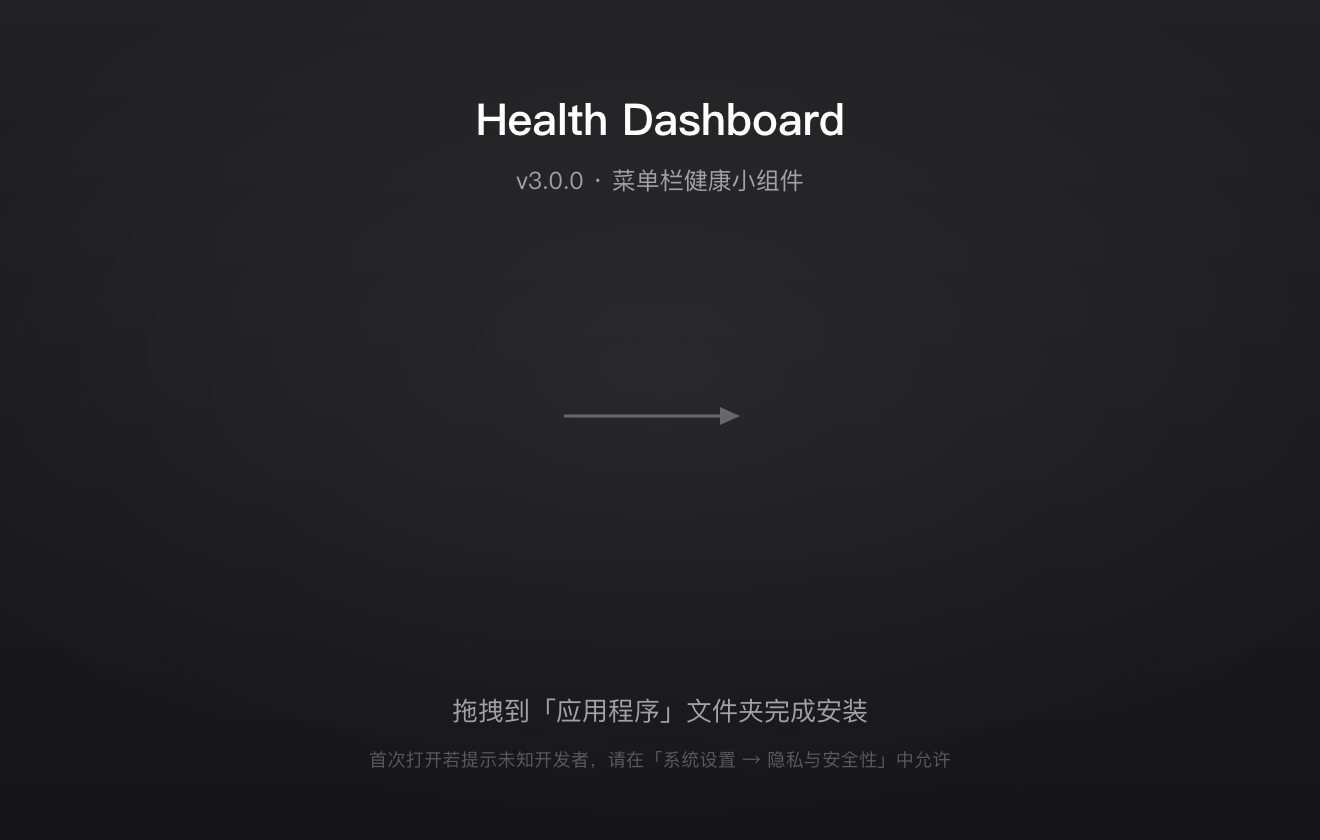
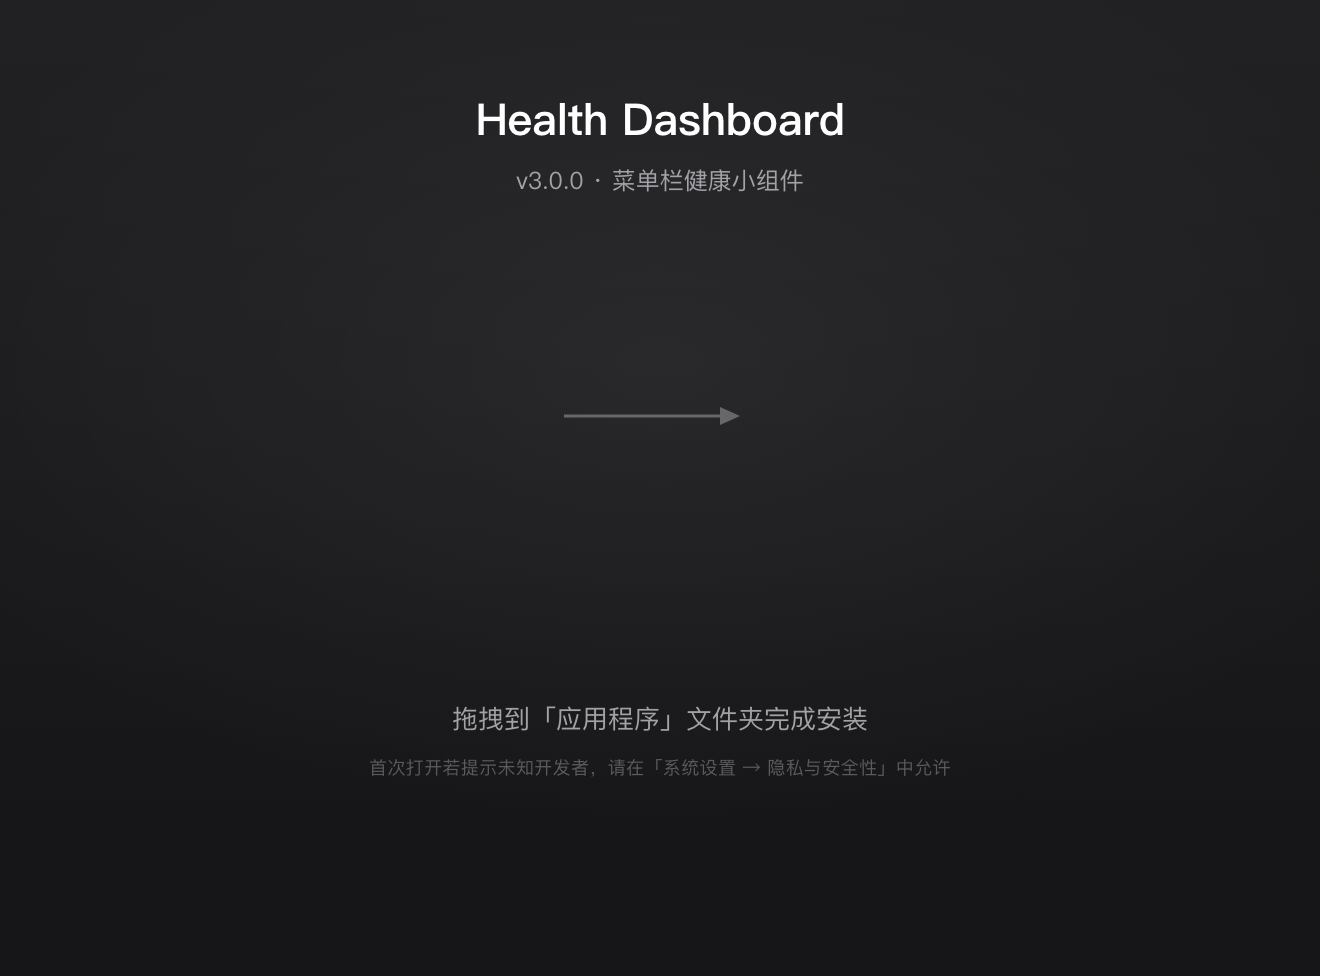
fix(dmg): 安装画面位移乱版 —— 背景图按 144dpi 写，图标补偿网格偏移
根因两条，都实测标定过：

1. Finder 把 .DS_Store 的背景图**按像素当点**画。1320×840 的 PNG 被当成
   1320×840 点，在 660 宽的窗口里只露出左上角，标题跑到右边被裁 —— 这就是
   看到的「位移」。给 PNG 写 144dpi 后 NSImage 点尺寸回到 660×488，画面归位。

2. Finder 渲染图标时会整体右移一个固定量（实测 +34.8pt，两个图标一致、
   与取值无关）。Iloc 写 130/460，渲染出来中心正好落在 165/495，中线 329
   正对背景图箭头。

配套改动：
- background.html/png: 画布 660×488（上面 420 是设计区，下面 68 只铺渐变）
- build_dmg.sh: 窗口 bounds {{500, 335}, {660, 516}}
  标题栏 28 + 工具栏 40 + 内容区 420 + 路径栏 28。ShowToolbar=false 在 macOS 26
  不被采纳，所以按「工具栏一定在」配高度，再用多画的 68 点兜住它被隐藏的情况。
- patch_dsstore.py: DEFAULT_LAYOUT/GRID_NUDGE_X 常量 + 坐标语义写进 docstring

验收（真机截图逐像素测）：内容区 334.0–753.5（高 419.5）、宽 658.5；
app 图标中心 x=164.2、文件夹 494.2（目标 165/495）；图标中线 329.2，箭头 325。

diff --git a/assets/dmg/background.html b/assets/dmg/background.html
@@ -4,16 +4,23 @@
 <meta charset="utf-8">
 <title>dmg background</title>
 <style>
-  html,body{width:660px;height:420px;margin:0;padding:0;overflow:hidden}
+  /* 画布 660×488：上面 420 是设计区，下面 68 只铺渐变。
+     Finder 会把图按「像素当点」画，所以导出时必须写 144dpi，
+     这样 1320×976 的图才会渲染成 660×488 点。 */
+  html,body{width:660px;height:488px;margin:0;padding:0;overflow:hidden}
   body{
     position:relative;
     font-family:-apple-system,"SF Pro Text","PingFang SC",system-ui,sans-serif;
     font-variant-numeric:tabular-nums;
     -webkit-font-smoothing:antialiased;
-    background:linear-gradient(180deg,#212124 0%,#161618 100%);
+    background:#161618;
     color:#fff;
   }
-  .glow{position:absolute;inset:0;background:radial-gradient(560px 320px at 50% 44%,rgba(255,255,255,.055),transparent 72%)}
+  /* 渐变只铺设计区高度，多出来的部分用渐变末端色，接缝看不出 */
+  .bg{position:absolute;left:0;top:0;width:660px;height:420px;
+      background:linear-gradient(180deg,#212124 0%,#161618 100%)}
+  .glow{position:absolute;left:0;top:0;width:660px;height:420px;
+        background:radial-gradient(560px 320px at 50% 44%,rgba(255,255,255,.055),transparent 72%)}
 
   .brand{position:absolute;left:0;right:0;top:44px;text-align:center}
   .brand-t{font-size:22px;font-weight:600;letter-spacing:-.01em;color:#fff}
@@ -22,12 +29,14 @@
   .guide{position:absolute;left:50%;top:208px;transform:translate(-50%,-50%);width:96px;height:12px}
   .guide svg{display:block;width:96px;height:12px}
 
-  .foot{position:absolute;left:0;right:0;bottom:34px;text-align:center}
+  /* 用 top 定位而不是 bottom：画布加高后位置不变，仍在设计区内 */
+  .foot{position:absolute;left:0;right:0;top:350px;text-align:center}
   .foot-m{font-size:13px;color:#A1A1A6}
   .foot-s{font-size:9px;color:#5A5A5F;margin-top:9px;letter-spacing:.02em}
 </style>
 </head>
 <body>
+  <div class="bg"></div>
   <div class="glow"></div>
 
   <div class="brand">

diff --git a/scripts/patch_dsstore.py b/scripts/patch_dsstore.py
@@ -8,10 +8,18 @@ Finder 的 AppleScript 通道在受限环境下可能被系统拒绝，或在多
   2. Iloc 记录          —— 每个条目的图标坐标（x, y 各 4 字节大端）
 
 用法：
-    patch_dsstore.py <卷挂载路径> [--bounds "{{360, 160}, {660, 448}}"]
+    patch_dsstore.py <卷挂载路径> [--bounds "{{500, 335}, {660, 516}}"]
 
-坐标说明：Finder 的图标坐标原点在**窗口内容区左上角**，y 向下。
-窗口的 WindowBounds 高度 = 内容区高度 + 标题栏高度（本机实测 28pt）。
+坐标说明（macOS 26.6 实测标定）：
+  - Iloc 坐标原点在**窗口内容区左上角**，y 向下；存的是图标**中心**。
+    x 存 160 时图标中心落在内容区 x=165，即 app 侧有 +5 的固定内缩。
+  - WindowBounds 是**左上角原点**的屏幕坐标（不是 Cocoa 的底部原点），
+    存 (500, 335) 窗口顶边就落在 y=335。
+  - WindowBounds 的高度 = 标题栏 + 工具栏 + 内容区 + 路径栏。实测：
+    标题栏 28 + 工具栏 40 + 路径栏 28 = 96，所以内容区要 420 就得写 516。
+    .DS_Store 里的 ShowToolbar / ShowPathbar 在本机不被 Finder 采纳，
+    所以按「工具栏一定在」来配高度，再把背景图多画 68 点（488）兜住
+    万一工具栏被隐藏时多出来的内容区。
 """
 
 import argparse
@@ -20,18 +28,28 @@ import re
 import sys
 import io
 
-# 条目名 -> 目标坐标。隐藏项挪到内容区下方（内容区高 420，y=560 完全在视口外），
-# 这样即使用户在 Finder 里开了「显示隐藏文件」也看不到它们。
+# 条目名 -> 目标坐标。
+#
+# 坐标语义（实测标定，macOS 26.6）：
+#   Iloc 的 x/y 原点在**内容区左上角**，保存的是图标**中心**的基准点，但 Finder 渲染时
+#   会把整个图标网格右移一个固定量（实测 +34.8pt，两个图标一致、与取值无关，
+#   与图标名最长的标签宽度有关，对本 app 是确定值）。所以这里按「设计值 - 35」写，
+#   渲染出来中心正好落在 165 / 495，中线 330 正对背景图箭头。
+#   y 无偏移（208 -> 207.8）。
+#   隐藏项挪到内容区下方（y=560 在 488 高的内容区之外），这样即使用户在 Finder 里
+#   开了「显示隐藏文件」也看不到它们。
+GRID_NUDGE_X = 35
+
 DEFAULT_LAYOUT = {
-    "Health Dashboard.app": (165, 208),
-    "Applications": (495, 208),
+    "Health Dashboard.app": (165 - GRID_NUDGE_X, 208),
+    "Applications": (495 - GRID_NUDGE_X, 208),
     ".background": (60, 560),
     ".fseventsd": (220, 560),
     ".VolumeIcon.icns": (380, 560),
 }
 
-# 窗口内容区之外的坐标才算「挪走」；用于校验
-CONTENT_H = 420
+# 内容区高度（背景图高 488，设计区占上面 420）；用于校验隐藏项是否真在视口外
+CONTENT_H = 488
 
 
 def die(msg):
@@ -89,7 +107,7 @@ def main():
     ap.add_argument("volume", help="卷挂载路径，例如 /Volumes/Health Dashboard")
     ap.add_argument(
         "--bounds",
-        default="{{360, 160}, {660, 448}}",
+        default="{{500, 335}, {660, 516}}",
         help="窗口 bounds，格式 '{{x, y}, {w, h}}'；h 含标题栏（内容区高 + 28）",
     )
     args = ap.parse_args()
